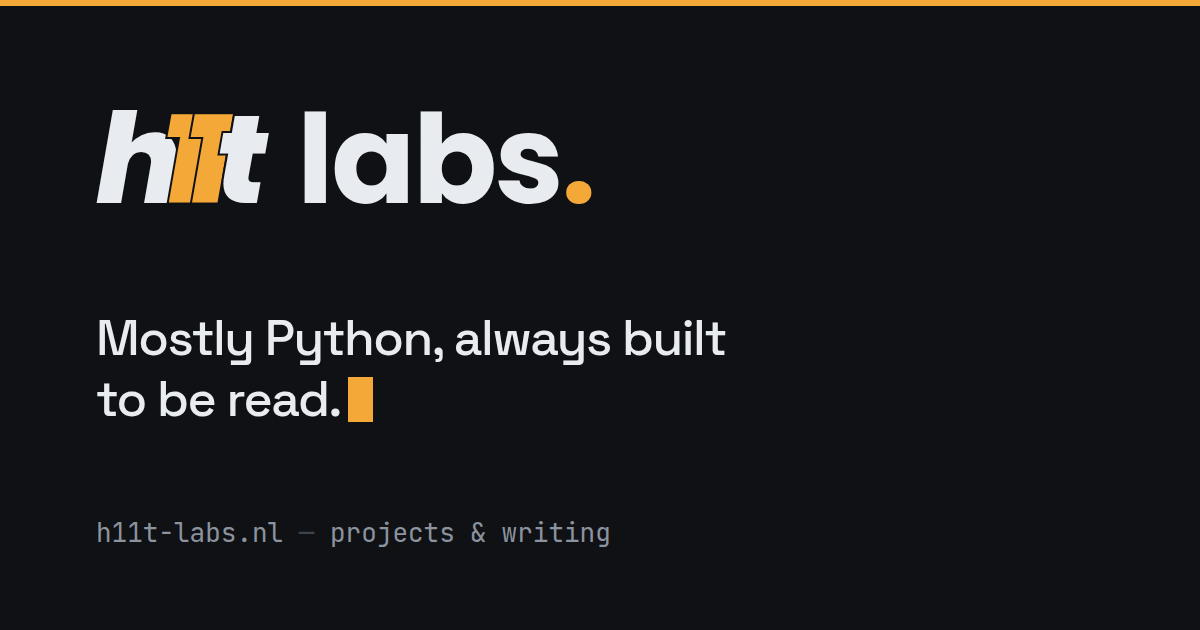
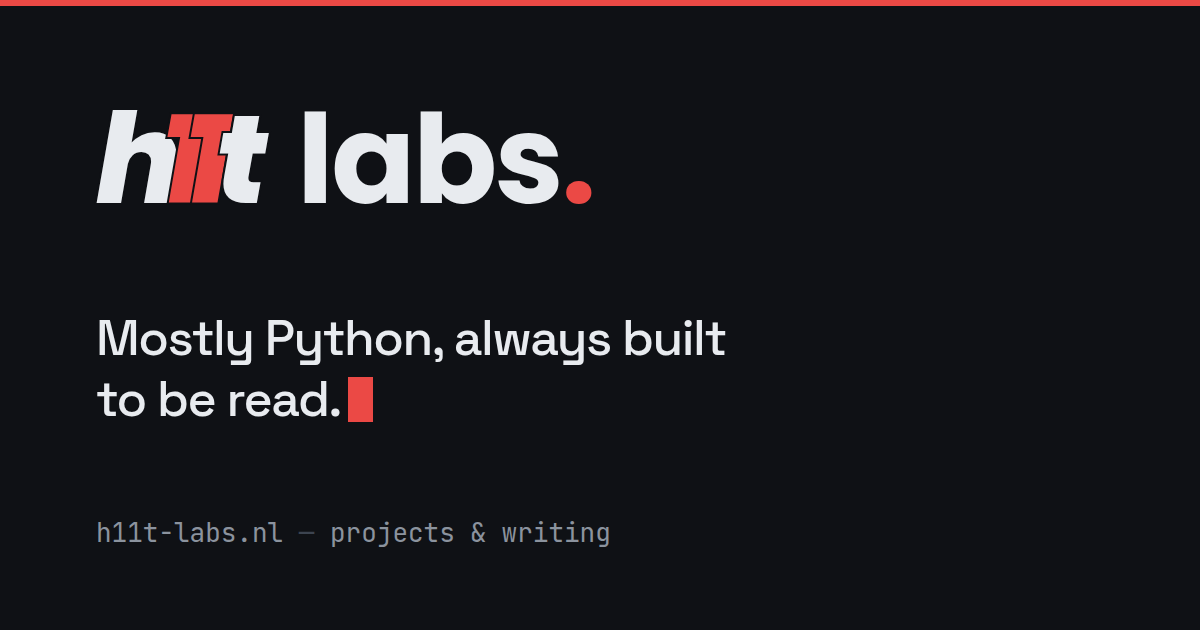
color: red accent (#eb4945) instead of amber
Mirrors the brand repo: `--amber`/`--amber-text` become `--accent` /
`--accent-text` (#eb4945; light-theme text #ce282c, 5.0:1 on paper). The
logo, cursor, hairline, buttons, favicon and og.png turn red; the primary
button hover is now derived from the accent instead of a fixed amber.

Claude-Session: https://claude.ai/code/session_01PAjyTyoZxENRaa2f5DRkcW

diff --git a/src/styles/global.css b/src/styles/global.css
@@ -7,18 +7,18 @@
 :root {
   color-scheme: dark;
   /* color tokens (mirrors tokens.css in the brand repo). Words are >= 4.5:1
-     on ink; `index` is decorative only, so small text uses `faint` and amber
-     words use `amber-text`. */
-  --ink:        #0f1115;   /* page background                         */
-  --surface:    #141821;   /* elevated surface / cards                */
-  --border:     #23272e;   /* hairlines, dividers                     */
-  --amber:      #f4a838;   /* accent: fills, the logo, markers        */
-  --amber-text: #f4a838;   /* amber as text                           */
-  --text:       #e8ebef;   /* primary text / headings                 */
-  --muted:      #8b939e;   /* body / secondary text                   */
-  --faint:      #7a828e;   /* meta: dates, read times, inactive UI    */
-  --link:       #6f9be8;   /* links (repo handles)                    */
-  --index:      #3c4450;   /* decorative: keylines, separators        */
+     on ink; `index` is decorative only, so small text uses `faint` and
+     accent-colored words use `accent-text`. */
+  --ink:         #0f1115;   /* page background                         */
+  --surface:     #141821;   /* elevated surface / cards                */
+  --border:      #23272e;   /* hairlines, dividers                     */
+  --accent:      #eb4945;   /* the red: fills, the logo, markers       */
+  --accent-text: #eb4945;   /* the accent as text                      */
+  --text:        #e8ebef;   /* primary text / headings                 */
+  --muted:       #8b939e;   /* body / secondary text                   */
+  --faint:       #7a828e;   /* meta: dates, read times, inactive UI    */
+  --link:        #6f9be8;   /* links (repo handles)                    */
+  --index:       #3c4450;   /* decorative: keylines, separators        */
 
   /* type families — --font-display (Space Grotesk: headings + UI),
      --font-prose (Source Serif 4: long-form body), --font-mono (JetBrains
@@ -34,36 +34,36 @@
 /* ---- light theme ---------------------------------------------------- *
  * The same tokens, retuned for a warm-paper light mode. Applied
  * automatically when the OS prefers light (unless the toggle has forced a
- * theme), or explicitly via [data-theme]. Amber stays bright for fills and
- * the logo; where it's text (--amber-text) it turns a deeper, redder copper.
+ * theme), or explicitly via [data-theme]. The red stays the same for fills
+ * and the logo; where it's text (--accent-text) it goes a shade deeper.
  * Everything else references the tokens, so it just adapts. */
 @media (prefers-color-scheme: light) {
   :root:not([data-theme]) {
     color-scheme: light;
-    --ink:        #faf9f6;
-    --surface:    #f1efe8;
-    --border:     #e6e2d8;
-    --amber:      #f4a838;
-    --amber-text: #be4103;
-    --text:       #17191d;
-    --muted:      #676c66;
-    --faint:      #6b6f69;
-    --link:       #2a61c2;
-    --index:      #b6b1a6;
+    --ink:         #faf9f6;
+    --surface:     #f1efe8;
+    --border:      #e6e2d8;
+    --accent:      #eb4945;
+    --accent-text: #ce282c;
+    --text:        #17191d;
+    --muted:       #676c66;
+    --faint:       #6b6f69;
+    --link:        #2a61c2;
+    --index:       #b6b1a6;
   }
 }
 :root[data-theme="light"] {
   color-scheme: light;
-  --ink:        #faf9f6;
-  --surface:    #f1efe8;
-  --border:     #e6e2d8;
-  --amber:      #f4a838;
-  --amber-text: #be4103;
-  --text:       #17191d;
-  --muted:      #676c66;
-  --faint:      #6b6f69;
-  --link:       #2a61c2;
-  --index:      #b6b1a6;
+  --ink:         #faf9f6;
+  --surface:     #f1efe8;
+  --border:      #e6e2d8;
+  --accent:      #eb4945;
+  --accent-text: #ce282c;
+  --text:        #17191d;
+  --muted:       #676c66;
+  --faint:       #6b6f69;
+  --link:        #2a61c2;
+  --index:       #b6b1a6;
 }
 
 * { box-sizing: border-box; }
@@ -82,13 +82,13 @@ html {
 }
 body { margin: 0; min-height: 100dvh; }
 
-/* the amber top hairline the design shows above the layout */
+/* the accent top hairline the design shows above the layout */
 body::before {
   content: "";
   position: fixed;
   inset: 0 0 auto 0;
   height: 2px;
-  background: var(--amber);
+  background: var(--accent);
   z-index: 100;
 }
 
@@ -143,7 +143,7 @@ h1, h2, h3, h4 {
 
 .muted { color: var(--muted); }
 .faint { color: var(--faint); }
-.amber { color: var(--amber-text); }
+.accent { color: var(--accent-text); }
 
 /* mono tag pill */
 .tag {
@@ -196,11 +196,11 @@ pre code { background: none; border: 0; padding: 0; }
   :root:not([data-theme]) .astro-code span { color: var(--shiki-light); }
 }
 
-::selection { background: color-mix(in srgb, var(--amber) 28%, transparent); color: var(--text); }
+::selection { background: color-mix(in srgb, var(--accent) 28%, transparent); color: var(--text); }
 
 /* skip link */
 .skip { position: absolute; left: -9999px; }
-.skip:focus { left: 1rem; top: 1rem; z-index: 200; background: var(--amber); color: #0f1115; padding: .5rem .8rem; border-radius: 6px; }
+.skip:focus { left: 1rem; top: 1rem; z-index: 200; background: var(--accent); color: #0f1115; padding: .5rem .8rem; border-radius: 6px; }
 
 /* ---- i18n: show the variant matching <html lang>, URLs unchanged ---- */
 [data-i18n-lang] { display: none; }
@@ -221,11 +221,11 @@ html:lang(nl) [data-i18n-lang="nl"] { display: contents; }
   transition: transform .15s ease, background .15s ease, border-color .15s ease;
 }
 .btn:hover { text-decoration: none; transform: translateY(-1px); }
-.btn--primary { background: var(--amber); color: #0f1115; border-color: var(--amber); }
-.btn--primary:hover { background: #f7b551; }
+.btn--primary { background: var(--accent); color: #0f1115; border-color: var(--accent); }
+.btn--primary:hover { background: color-mix(in srgb, var(--accent) 85%, #fff); }
 .btn--ghost { background: transparent; color: var(--text); border-color: color-mix(in srgb, var(--text) 26%, transparent); }
 .btn--ghost:hover { border-color: var(--text); background: color-mix(in srgb, var(--text) 7%, transparent); }
-/* github button: neutral (black on light, white on dark), never amber */
+/* github button: neutral (black on light, white on dark), never the accent */
 .btn--gh { background: transparent; color: var(--text); border-color: color-mix(in srgb, var(--text) 26%, transparent); }
 .btn--gh:hover { border-color: var(--text); background: color-mix(in srgb, var(--text) 7%, transparent); }
 .btn--gh svg { opacity: 0.9; }

diff --git a/scripts/og-image.html b/scripts/og-image.html
@@ -10,17 +10,17 @@
 html, body { margin: 0; }
 .card { width: 1200px; height: 630px; box-sizing: border-box; background: #0f1115; color: #e8ebef;
   padding: 92px 96px 80px; display: flex; flex-direction: column; justify-content: space-between;
-  border-top: 6px solid #f4a838; -webkit-font-smoothing: antialiased; }
+  border-top: 6px solid #eb4945; -webkit-font-smoothing: antialiased; }
 .logo { display: inline-flex; align-items: baseline; font-family: 'Poppins'; line-height: 1; white-space: nowrap; }
 .mark { display: inline-flex; font-style: italic; font-weight: 800; font-size: 124px; }
 .g { color: #e8ebef; -webkit-text-stroke: 4px #0f1115; paint-order: stroke fill; }
-.g1 { color: #f4a838; margin-left: -0.17em; }
+.g1 { color: #eb4945; margin-left: -0.17em; }
 .g1b { margin-left: -0.2em; }
 .gt { margin-left: -0.13em; }
 .labs { font-weight: 700; font-size: 124px; letter-spacing: -0.02em; margin-left: 0.24em; }
-.dot { font-weight: 800; font-size: 124px; color: #f4a838; }
+.dot { font-weight: 800; font-size: 124px; color: #eb4945; }
 .tag { margin: 0; font-family: 'Space Grotesk'; font-weight: 500; font-size: 50px; line-height: 1.22; letter-spacing: -0.03em; max-width: 21ch; }
-.cursor { display: inline-block; width: 0.5em; height: 0.9em; background: #f4a838; margin-left: 0.14em; transform: translateY(0.12em); }
+.cursor { display: inline-block; width: 0.5em; height: 0.9em; background: #eb4945; margin-left: 0.14em; transform: translateY(0.12em); }
 .foot { margin: 0; font-family: 'JetBrains Mono'; font-size: 26px; color: #8b939e; display: flex; gap: 0.6em; }
 .foot .sep { color: #3c4450; }
 </style></head><body>

diff --git a/README.md b/README.md
@@ -5,7 +5,7 @@ and ported from the Claude Design source (`h11t labs.dc.html`).
 
 Dark, terminal-flavored, two-column: a fixed left sidebar (numbered nav) and a
 main column. Space Grotesk for headings/UI, Source Serif 4 for long-form prose,
-JetBrains Mono for labels, Poppins for the wordmark. Amber `#f4a838` accent on
+JetBrains Mono for labels, Poppins for the wordmark. Red `#eb4945` accent on
 ink `#0f1115`.
 
 ## Brand — assets, style guide & tone of voice
@@ -111,8 +111,8 @@ bodies are the paired `-en`/`-nl` files ([src/lib/articles.ts](src/lib/articles.
 All colors and fonts live as CSS custom properties at the top of
 `src/styles/global.css`, mirrored on the `/system` page. The **source of truth** is
 [tokens.css in the brand repo](https://github.com/h11t-labs/brand/blob/main/tokens.css);
-keep the two in sync (ink, surface, border, amber, amber-text, text, muted, faint,
-link, index — dark and light).
+keep the two in sync (ink, surface, border, accent, accent-text, text, muted,
+faint, link, index — dark and light).
 
 ## Deploy
 
